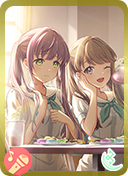
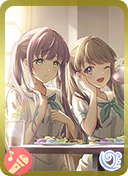
add new grand prix cards

Changed region(s): [[0.75, 0.8239, 0.9688, 0.9943]]

diff --git a/public/cardcheck.html b/public/cardcheck.html
@@ -1079,7 +1079,20 @@
                                     <img class="overlay" src="/overlay/grandprix.png" />
                                 </div>
                             </div>
-                            <div class="empty"></div>
+                            <div class="card kozue__common__sr">
+                                <div class="overlay">
+                                    <img class="cardimg" src="/common/kozue/sr/teacher.png" />
+                                </div>
+                                <div class="overlay opacity60">
+                                    <img class="overlay" src="/overlay/sr_plus0.png" />
+                                </div>
+                                <div class="overlay invisible">
+                                    <img class="overlay" src="/limitbreak/limitbreak1.png" />
+                                </div>
+                                <div class="overlay opacity60">
+                                    <img class="overlay" src="/overlay/grandprix.png" />
+                                </div>
+                            </div>
                             <div class="empty"></div>
                         </div>
                         <div class="card__section sr__section">
@@ -2829,7 +2842,20 @@
                                     <img class="overlay" src="/limitbreak/limitbreak1.png" />
                                 </div>
                             </div>
-                            <div class="empty"></div>
+                            <div class="card megumi__common__ur">
+                                <div class="overlay">
+                                    <img class="cardimg" src="/common/megumi/ur/teacher.png" />
+                                </div>
+                                <div class="overlay opacity60">
+                                    <img class="overlay" src="/overlay/ur_plus0.png" />
+                                </div>
+                                <div class="overlay invisible">
+                                    <img class="overlay" src="/limitbreak/limitbreak1.png" />
+                                </div>
+                                <div class="overlay opacity60">
+                                    <img class="overlay" src="/overlay/grandprix.png" />
+                                </div>
+                            </div>
                         </div>
                         <div class="card__section ur__section"></div>
                         <div class="card__section ur__section"></div>
